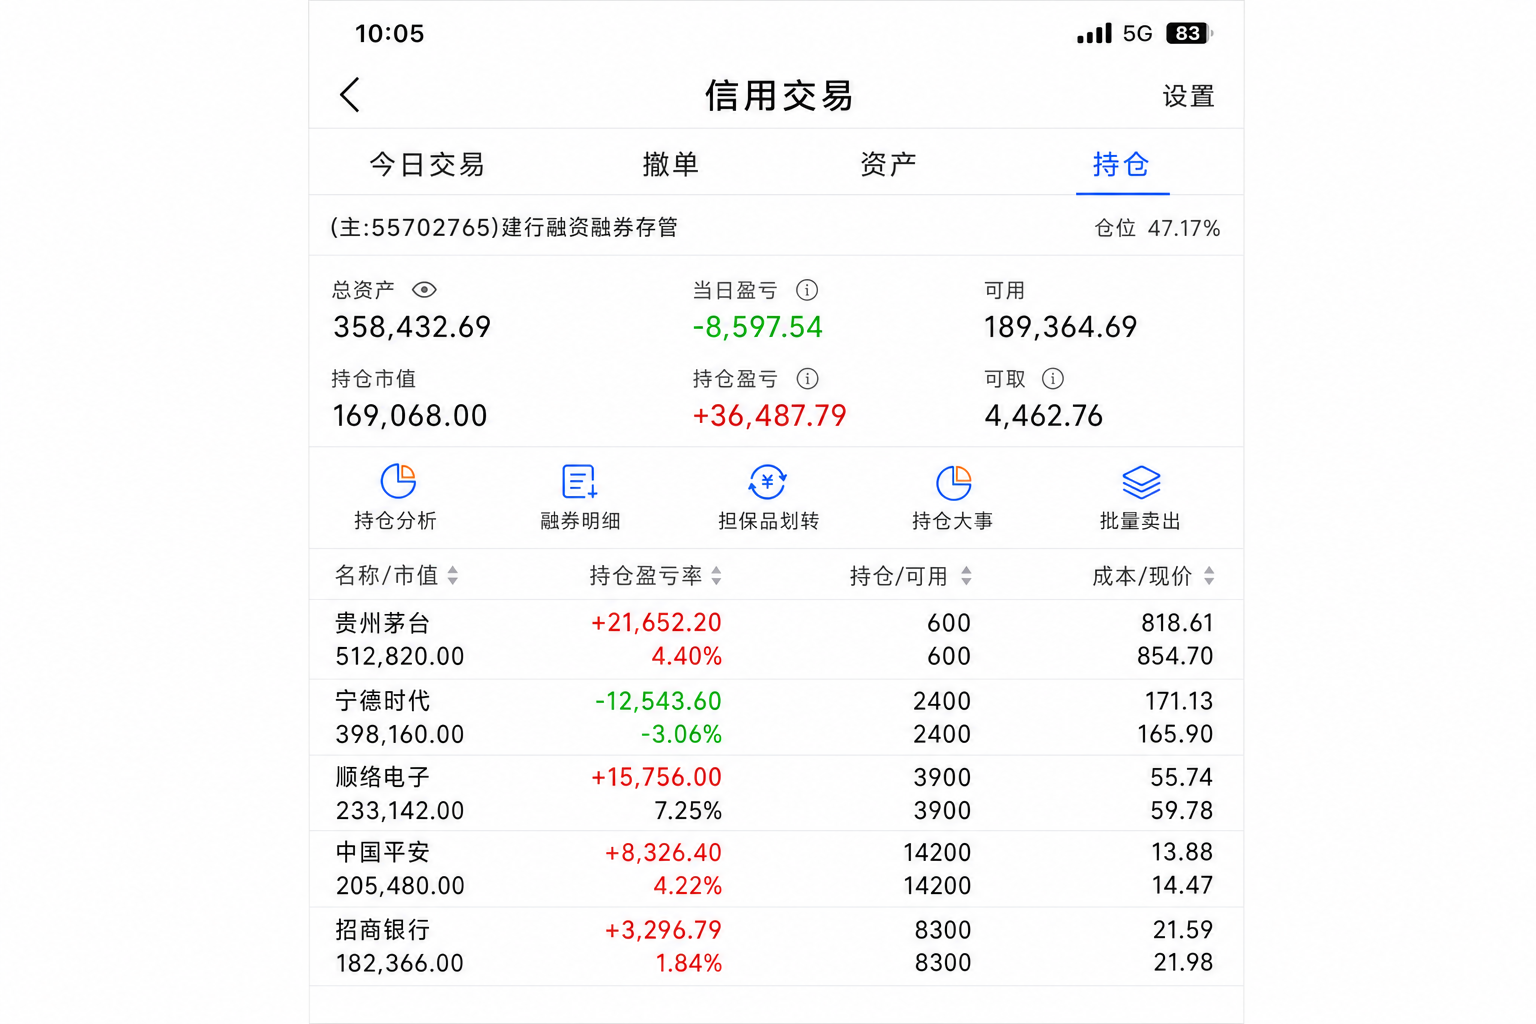
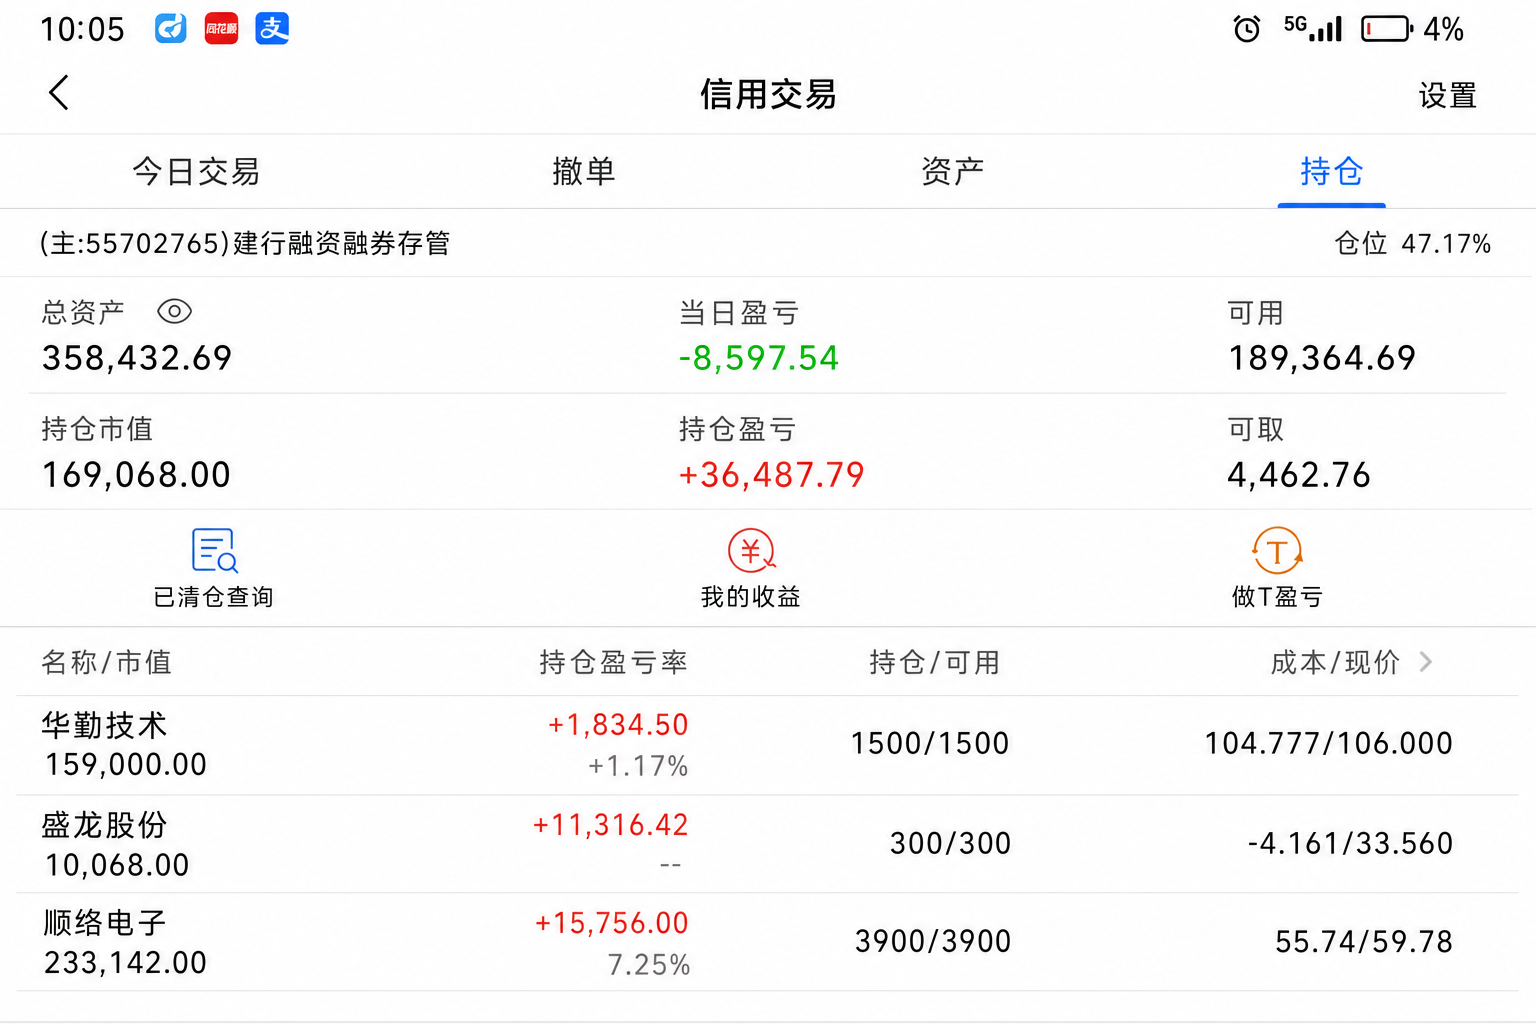
Update holdings image based on original screenshot layout
Recreate original 信用交易持仓界面 (华勤技术/盛龙股份/顺络电子)
with 顺络电子 row updated:
- Cost 55.74, price 59.78, 3900 shares
- P/L +15,756.00, rate 7.25%, market value 233,142.00

Add edit_sunlord.py for pixel-level edits when original.png is provided.

diff --git a/edit_sunlord.py b/edit_sunlord.py
@@ -1,0 +1,98 @@
+#!/usr/bin/env python3
+"""Edit 顺络电子 row on the original holdings screenshot."""
+
+from PIL import Image, ImageDraw, ImageFont
+import sys
+import os
+
+# Colors from Chinese stock apps
+RED = (230, 67, 64)      # profit
+GRAY = (153, 153, 153)   # secondary text
+BLACK = (51, 51, 51)     # primary text
+WHITE = (255, 255, 255)
+
+# Edits for 顺络电子 row (3rd stock row)
+EDITS = [
+    # (x, y, width, height, text, color, align)
+    # Column 1: market value under stock name
+    {"box": (0.52, 0.585, 0.46, 0.018), "text": "233,142.00", "color": BLACK, "align": "right"},
+    # Column 2: P/L and rate
+    {"box": (0.52, 0.565, 0.22, 0.018), "text": "+15,756.00", "color": RED, "align": "right"},
+    {"box": (0.52, 0.585, 0.22, 0.018), "text": "7.25%", "color": GRAY, "align": "right"},
+    # Column 3: holdings/available
+    {"box": (0.68, 0.565, 0.14, 0.018), "text": "3900", "color": BLACK, "align": "right"},
+    {"box": (0.68, 0.585, 0.14, 0.018), "text": "3900", "color": BLACK, "align": "right"},
+    # Column 4: cost/current price
+    {"box": (0.78, 0.565, 0.20, 0.018), "text": "55.74", "color": BLACK, "align": "right"},
+    {"box": (0.78, 0.585, 0.20, 0.018), "text": "59.78", "color": BLACK, "align": "right"},
+]
+
+
+def get_font(size):
+    candidates = [
+        "/usr/share/fonts/truetype/noto/NotoSansCJK-Regular.ttc",
+        "/usr/share/fonts/opentype/noto/NotoSansCJK-Regular.ttc",
+        "/usr/share/fonts/truetype/dejavu/DejaVuSans.ttf",
+        "/usr/share/fonts/truetype/liberation/LiberationSans-Regular.ttf",
+        "/opt/cursor/ansible/files/fonts/PublicSans-Regular.ttf",
+    ]
+    for path in candidates:
+        if os.path.exists(path):
+            try:
+                return ImageFont.truetype(path, size)
+            except Exception:
+                continue
+    return ImageFont.load_default()
+
+
+def cover_and_draw(draw, img_w, img_h, box_frac, text, color, align, font):
+    x1 = int(box_frac[0] * img_w)
+    y1 = int(box_frac[1] * img_h)
+    x2 = int((box_frac[0] + box_frac[2]) * img_w)
+    y2 = int((box_frac[1] + box_frac[3]) * img_h)
+
+    # Sample background color from left edge of box
+    sample_x = max(0, x1 - 5)
+    sample_y = (y1 + y2) // 2
+  # extend cover slightly
+    pad = 4
+    draw.rectangle([x1 - pad, y1 - 2, x2 + pad, y2 + 2], fill=WHITE)
+
+    bbox = draw.textbbox((0, 0), text, font=font)
+    tw = bbox[2] - bbox[0]
+    th = bbox[3] - bbox[1]
+
+    if align == "right":
+        tx = x2 - tw
+    else:
+        tx = x1
+    ty = y1 + (y2 - y1 - th) // 2 - bbox[1]
+    draw.text((tx, ty), text, fill=color, font=font)
+
+
+def edit_image(input_path, output_path):
+    img = Image.open(input_path).convert("RGB")
+    w, h = img.size
+    draw = ImageDraw.Draw(img)
+
+    # Font size relative to image height
+    font_size = max(18, int(h * 0.014))
+    font = get_font(font_size)
+
+    for edit in EDITS:
+        cover_and_draw(
+            draw, w, h,
+            edit["box"], edit["text"], edit["color"], edit["align"], font
+        )
+
+    img.save(output_path, quality=95)
+    print(f"Saved: {output_path} ({w}x{h})")
+
+
+if __name__ == "__main__":
+    inp = sys.argv[1] if len(sys.argv) > 1 else "original.png"
+    out = sys.argv[2] if len(sys.argv) > 2 else "holdings_modified.png"
+    if not os.path.exists(inp):
+        print(f"Error: {inp} not found", file=sys.stderr)
+        sys.exit(1)
+    edit_image(inp, out)
